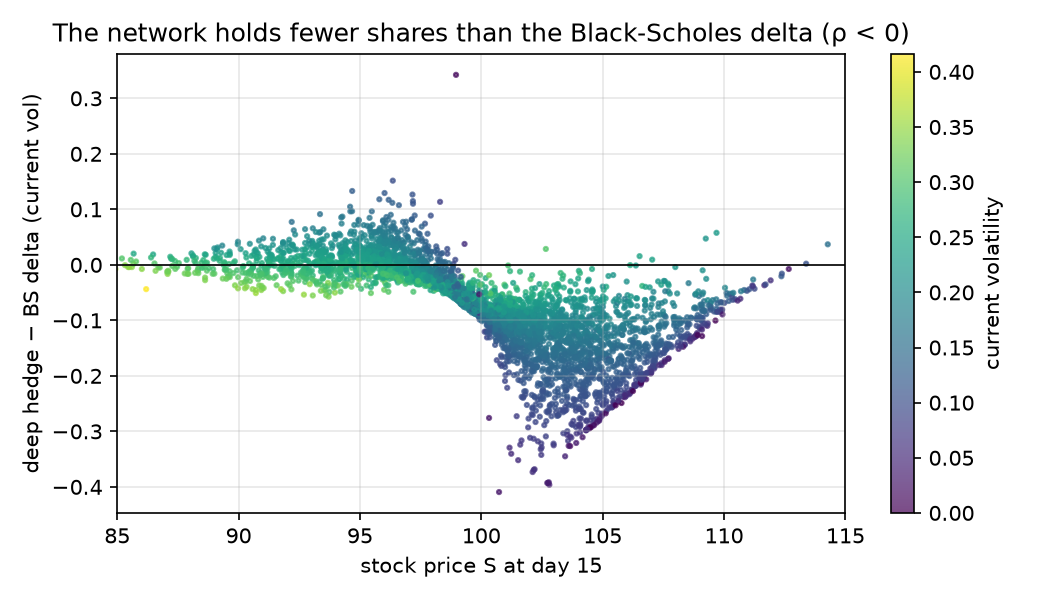
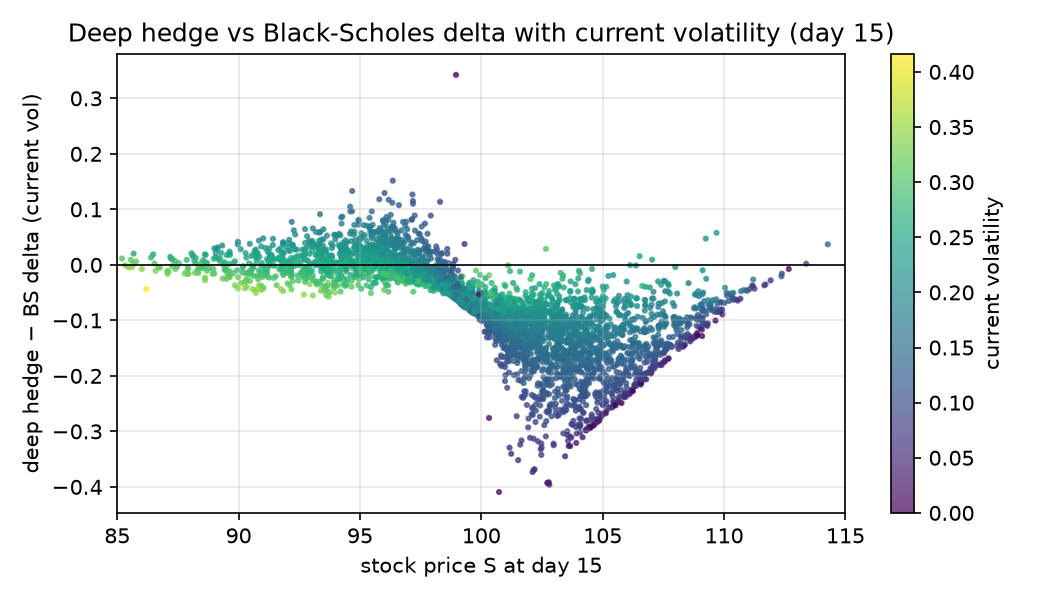
Combine Heston figures and explain the learned delta adjustment

Changed region(s): [[0.0305, 0.03, 0.8838, 0.09]]

diff --git a/experiments/05_heston_hedging.py b/experiments/05_heston_hedging.py
@@ -20,8 +20,8 @@ models are saved in models/ and reused on the next run.
 Run from the repository root:
     python experiments/05_heston_hedging.py
 
-Saves figures/heston_comparison.png, figures/heston_incompleteness.png and
-figures/heston_skew_adjustment.png, and prints a Markdown table.
+Saves figures/heston_comparison.png (risk of all strategies and the price of
+incompleteness) and figures/heston_skew_adjustment.png, and prints a Markdown table.
 """
 
 from pathlib import Path
@@ -159,43 +159,46 @@ def main():
 
     FIGURES.mkdir(exist_ok=True)
 
-    # --- Figure 1: CVaR of all strategies --------------------------------
+    # --- Figure 1: risk of all strategies and the price of incompleteness --
+    # Left: CVaR of the five strategies, with and without costs.
+    # Right: without costs, the best risk in the Black-Scholes world vs the
+    # Heston world: the extra risk that hedging with the stock cannot remove.
+    fig, (ax_left, ax_right) = plt.subplots(
+        1, 2, figsize=(15, 4.8), gridspec_kw={"width_ratios": [1.6, 1]}
+    )
+
     width = 0.16
     x = np.arange(len(COSTS))
-    fig, ax = plt.subplots(figsize=(9, 4.5))
     for i, name in enumerate(STRATEGIES):
         values = [results[c][name]["cvar"] for c in COSTS]
-        ax.bar(x + (i - 2) * width, values, width, label=name)
-    ax.set_xticks(x)
-    ax.set_xticklabels([f"cost {c:.1%}" for c in COSTS])
-    ax.set_ylabel(f"CVaR {ALPHA:.0%} of loss")
-    ax.set_title("Hedging risk under Heston stochastic volatility (N = 30, Heston premium)")
-    ax.grid(True, axis="y", alpha=0.3)
-    ax.legend(fontsize=8)
-    fig.tight_layout()
-    fig.savefig(FIGURES / "heston_comparison.png", dpi=150)
-    plt.close(fig)
+        ax_left.bar(x + (i - 2) * width, values, width, label=name)
+    ax_left.set_xticks(x)
+    ax_left.set_xticklabels([f"cost {c:.1%}" for c in COSTS])
+    ax_left.set_ylabel(f"CVaR {ALPHA:.0%} of loss")
+    ax_left.set_title("Hedging risk under Heston (N = 30, Heston premium)")
+    ax_left.grid(True, axis="y", alpha=0.3)
+    ax_left.legend(fontsize=8)
 
-    # --- Figure 2: the price of incompleteness (no costs) -----------------
     labels = ["BS delta", "Deep hedge"]
     bs_world = [gbm_cvar["BS delta"], gbm_cvar["Deep hedge"]]
     heston_world = [results[0.0]["BS delta, fixed vol"]["cvar"],
                     results[0.0]["Deep hedge (Heston), vol input"]["cvar"]]
     x = np.arange(len(labels))
-    fig, ax = plt.subplots(figsize=(6, 4))
-    ax.bar(x - 0.2, bs_world, 0.4, label="Black-Scholes world (constant vol)")
-    ax.bar(x + 0.2, heston_world, 0.4, label="Heston world (random vol)")
-    ax.set_xticks(x)
-    ax.set_xticklabels(labels)
-    ax.set_ylabel(f"CVaR {ALPHA:.0%} of loss")
-    ax.set_title("Without costs: risk that hedging with the stock cannot remove")
-    ax.grid(True, axis="y", alpha=0.3)
-    ax.legend(fontsize=8)
+    ax_right.bar(x - 0.2, bs_world, 0.4, label="Black-Scholes world (constant vol)")
+    ax_right.bar(x + 0.2, heston_world, 0.4, label="Heston world (random vol)")
+    ax_right.set_xticks(x)
+    ax_right.set_xticklabels(labels)
+    ax_right.set_ylabel(f"CVaR {ALPHA:.0%} of loss")
+    ax_right.set_title("No costs: risk the stock cannot hedge")
+    ax_right.grid(True, axis="y", alpha=0.3)
+    ax_right.legend(fontsize=8)
+
+    fig.suptitle("Hedging under Heston stochastic volatility")
     fig.tight_layout()
-    fig.savefig(FIGURES / "heston_incompleteness.png", dpi=150)
+    fig.savefig(FIGURES / "heston_comparison.png", dpi=150)
     plt.close(fig)
 
-    # --- Figure 3: how the network adjusts the delta (no costs) -----------
+    # --- Figure 2: how the network adjusts the delta (no costs) -----------
     # Difference between the deep hedge and the BS delta with the current
     # volatility, at day 15, against the stock price, coloured by volatility.
     j = 15
@@ -210,7 +213,7 @@ def main():
     ax.set_xlim(85, 115)
     ax.set_xlabel("stock price S at day 15")
     ax.set_ylabel("deep hedge − BS delta (current vol)")
-    ax.set_title("The network holds fewer shares than the Black-Scholes delta (ρ < 0)")
+    ax.set_title("Deep hedge vs Black-Scholes delta with current volatility (day 15)")
     ax.grid(True, alpha=0.3)
     fig.tight_layout()
     fig.savefig(FIGURES / "heston_skew_adjustment.png", dpi=150)

diff --git a/README.md b/README.md
@@ -104,18 +104,27 @@ position only partially towards the delta.
 With random volatility the Black–Scholes delta is misspecified and the stock alone cannot
 hedge all risk. Deep hedgers trained on Heston paths have the lowest CVaR (1.50 without
 costs, 2.70 with 0.5% costs), clearly better than Black–Scholes deltas with fixed (1.73 / 3.68)
-or current volatility (1.61 / 3.29). Networks trained on GBM transfer reasonably but lose to
+or current volatility (1.61 / 3.29). Networks trained on GBM perform reasonably but lose to
 those trained in the right model. Even the best strategy keeps more risk than in the
-Black–Scholes world (1.50 vs 0.98): the cost of an incomplete market.
+Black–Scholes world (1.50 vs 0.98).
 
-![Heston comparison](figures/heston_comparison.png)
-![Incompleteness](figures/heston_incompleteness.png)
+![Hedging risk under Heston and the price of incompleteness](figures/heston_comparison.png)
+
+Compared with the Black–Scholes delta at today's volatility, the network holds fewer shares
+above the strike and slightly more below it, most strongly when volatility is low. Two effects
+explain this. First, in the Heston model a low volatility tends to rise back towards its average,
+so the stock will likely move more than today's volatility suggests. The network therefore uses
+a smoother, less all-or-nothing hedge than the low-volatility Black–Scholes delta. Second, falling
+prices usually come with rising volatility (ρ < 0), which makes the option lose less value when
+the stock falls, so fewer shares are needed overall.
+
+![Deep hedge vs Black–Scholes delta with current volatility](figures/heston_skew_adjustment.png)
 
 ## Extensions
 
-- [] Repeat the training with several seeds.
-- [] Better inputs near maturity.
-- [] Other risk measures.
+-[] Repeat the training with several seeds.
+-[] Better inputs near maturity.
+-[] Other risk measures.
 
 ## Future work
 
@@ -175,8 +184,8 @@ saved in `models/` and reused on later runs. Delete that folder to retrain from 
 
 ## References
 
-- J. C. Hull. *Options, Futures, and Other Derivatives.* 7th ed. Pearson Prentice Hall, 2009.
 - H. Buehler, L. Gonon, J. Teichmann, B. Wood. *Deep Hedging.* Quantitative Finance 19(8), 2019.
+- J. C. Hull. *Options, Futures, and Other Derivatives.* 7th ed. Pearson Prentice Hall, 2009.
 - F. Black, M. Scholes. *The Pricing of Options and Corporate Liabilities.* Journal of Political Economy, 1973.
 - S. Heston. *A Closed-Form Solution for Options with Stochastic Volatility.* Review of Financial Studies, 1993.
 - H. Leland. *Option Pricing and Replication with Transactions Costs.* Journal of Finance, 1985.
